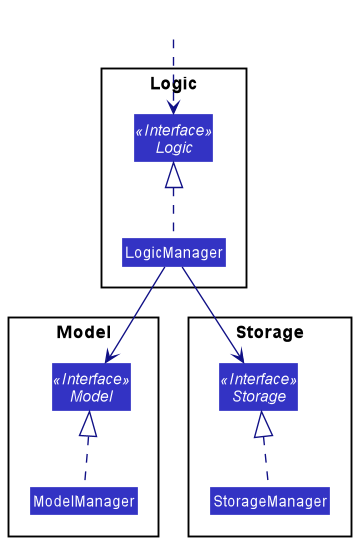
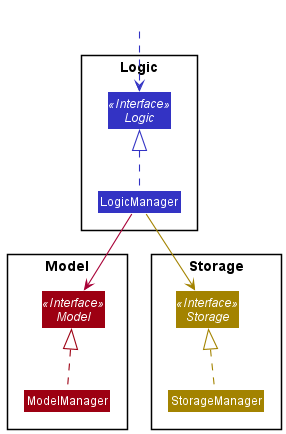
Change colors in Component Managers diagram
All three components Logic, Model and Storage are coloured the same
which can make the diagram harder to understand. Let's have each
component be coloured differently with their respective colours.

Changed region(s): [[0.0, 0.0599, 1.0, 1.0]]

diff --git a/docs/DeveloperGuide.md b/docs/DeveloperGuide.md
@@ -3,7 +3,7 @@ layout: page
 title: Developer Guide
 ---
 ## Table of Contents
-- [Table of Contents](#table-of-contents)
+- [**Table of Contents**](#table-of-contents)
 - [**Acknowledgements**](#acknowledgements)
 - [**Introduction**](#introduction)
 - [**What this developer guide is for**](#what-this-developer-guide-is-for)
